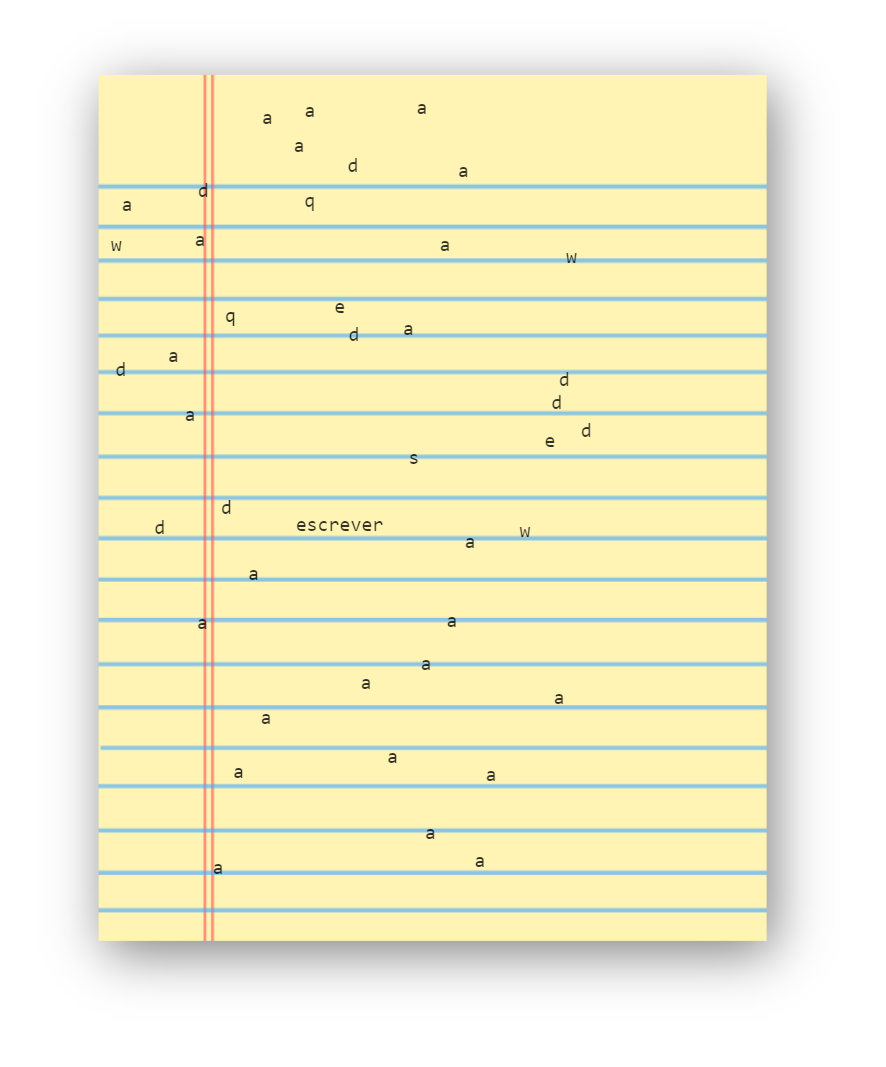
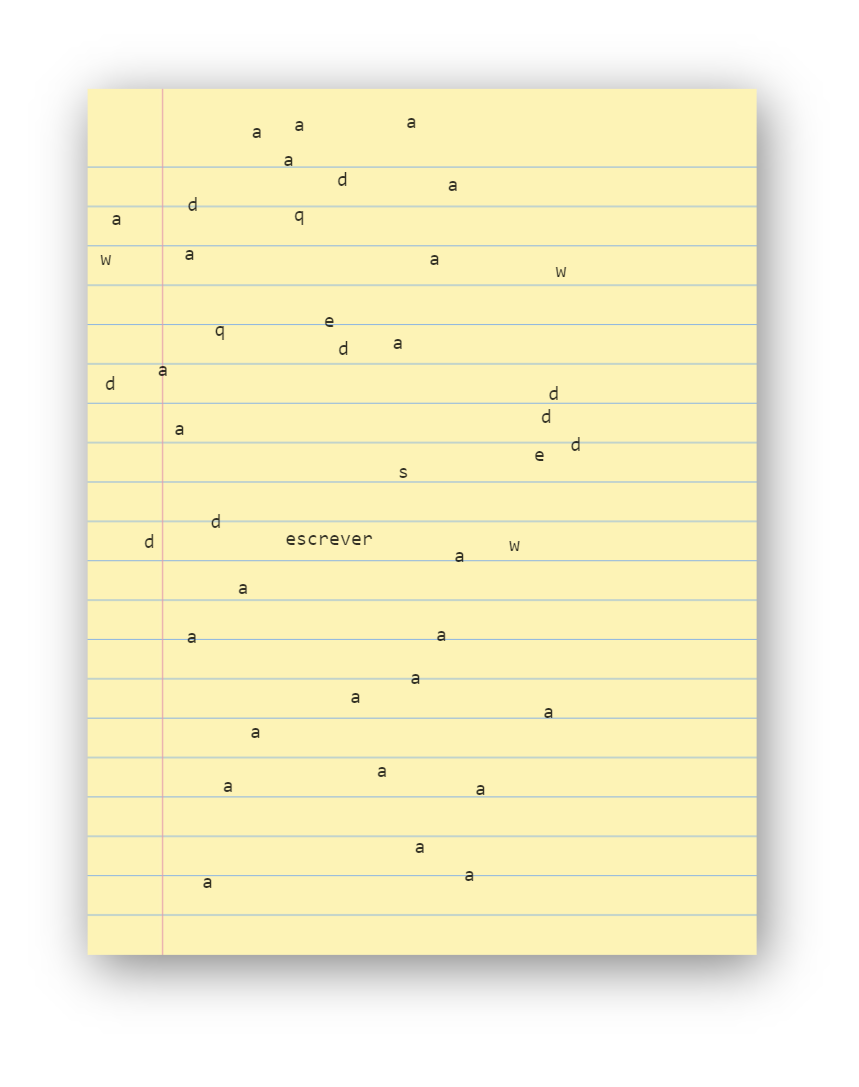
update image

Changed region(s): [[0.0908, 0.0619, 0.908, 0.8969]]

diff --git a/public/style.css b/public/style.css
@@ -20,7 +20,7 @@ body {
   top: 50%;
   transform: translate(-50%, -50%);
   filter: drop-shadow(6px 10px 21px rgba(0, 0, 0, 0.5));
-  background-image: url(https://d1csarkz8obe9u.cloudfront.net/posterpreviews/yellow-notebook-paper-background-design-template-d7dfa26f8c8c759652e2521f0ecd24eb_screen.jpg?ts=1636990781);
+  background-image: url(./yellow_paper.png);
   background-size: contain;
 }
 
